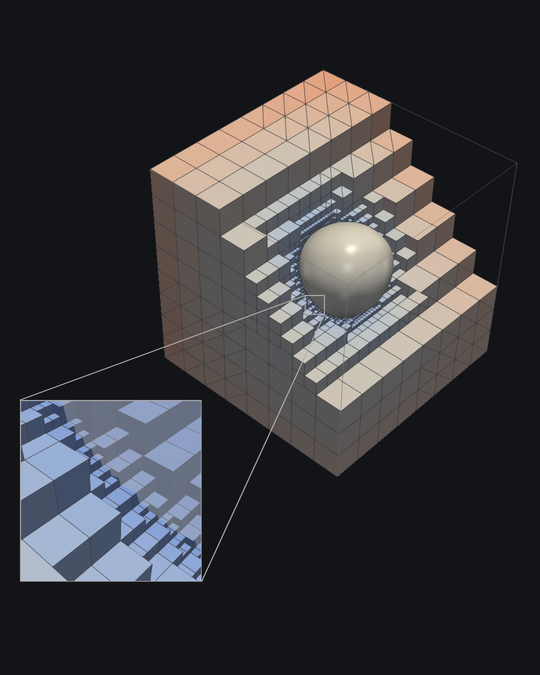
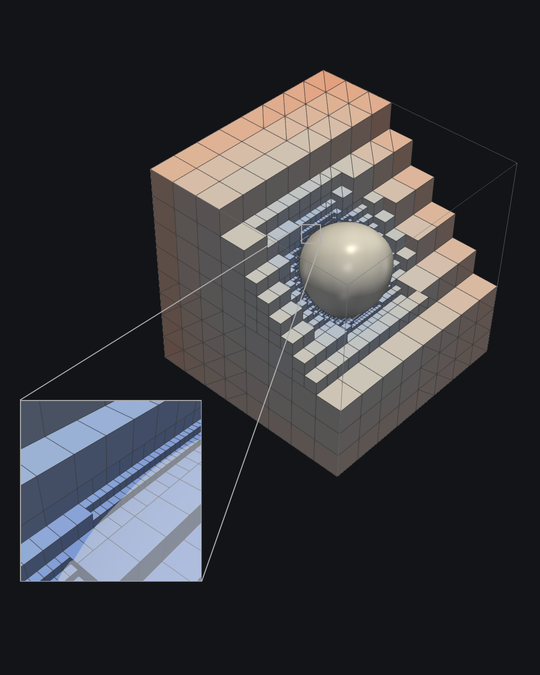
gpu_advection_visualization: zoom at the upper left of the sphere, make_video.sh --last
The zoom now shows the refinement band at the upper left of the sphere, so it also shows prisms
later in the run. New options: --inset-dir=x,y,z (advect_scene.py) and --last=N (make_video.sh,
ends the video at output step N). Images re-rendered.

[with assistance from claude] [created with claude]

diff --git a/cases/gpu_advection_visualization/postprocessing/advect_scene.py b/cases/gpu_advection_visualization/postprocessing/advect_scene.py
@@ -5,7 +5,7 @@ library path, otherwise pvpython picks up libraries from the module system:
 
   env -u LD_LIBRARY_PATH -u PYTHONPATH pvpython advect_scene.py state  <data_dir> <out.pvsm>
   env -u LD_LIBRARY_PATH -u PYTHONPATH pvpython advect_scene.py render <data_dir> <out_dir> <first> <last> [stride] [--raytrace]
-      [--inset] [--inset-zoom=Z] [--inset-iso=transparent|curve] [--labels] [--subtitle=TEXT]
+      [--inset] [--inset-zoom=Z] [--inset-iso=transparent|curve] [--inset-dir=x,y,z] [--labels] [--subtitle=TEXT]
 
 'state' writes a ParaView state file for the GUI. 'render' writes one PNG per time step
 (frame_NNN.png) for the steps first, first+stride, ... up to last (inclusive). With --inset each frame also
@@ -56,8 +56,10 @@ INSET_RESOLUTION = [360, 360]
 # Top left corner of the inset border in the frame. The inset stays clear of the bottom of the frame,
 # where video players show their controls.
 INSET_POSITION = [40, 800]
-# Lower left of the sphere in the main image (hexahedral part of the mesh).
-INSET_DIRECTION = [0.962, 0.193, -0.193]
+# Upper left of the sphere in the main image. Later in the run, the sphere moves into the prismatic part
+# of the mesh, so the zoom also shows prisms. (Lower left of the sphere: [0.962, 0.193, -0.193].)
+# Can be changed with --inset-dir=x,y,z.
+INSET_DIRECTION = [0.14, -0.7, 0.7]
 INSET_GAP = 0.005
 # Magnification of the inset relative to the main image (pixel size of a feature in the inset / in the main image).
 INSET_ZOOM = 10.0
@@ -253,7 +255,7 @@ def convex_hull(points):
   return set(hull)
 
 
-def save_inset(view, time, inset_file, zoom=INSET_ZOOM, iso_mode=INSET_ISO_MODE):
+def save_inset(view, time, inset_file, zoom=INSET_ZOOM, iso_mode=INSET_ISO_MODE, direction=INSET_DIRECTION):
   """Render the zoom into the refinement band at the given time into inset_file.
   Returns the corners of the zoomed region in the main image (top left, top right, bottom right, bottom left)."""
   from paraview import servermanager
@@ -274,8 +276,8 @@ def save_inset(view, time, inset_file, zoom=INSET_ZOOM, iso_mode=INSET_ISO_MODE)
   section.UpdatePipeline(time)
   points = servermanager.Fetch(section).GetPoints()
   outermost = builtins.max((points.GetPoint(i) for i in range(points.GetNumberOfPoints())),
-                  key=lambda p: vec_dot(p, INSET_DIRECTION))
-  focal = [outermost[i] + INSET_GAP * INSET_DIRECTION[i] for i in range(3)]
+                  key=lambda p: vec_dot(p, direction))
+  focal = [outermost[i] + INSET_GAP * direction[i] for i in range(3)]
   # Camera basis: back (towards the camera), up and right.
   back = vec_normalized([CAMERA_POSITION[i] - CAMERA_FOCAL_POINT[i] for i in range(3)])
   up = vec_normalized([CAMERA_VIEW_UP[i] - vec_dot(CAMERA_VIEW_UP, back) * back[i] for i in range(3)])
@@ -363,6 +365,7 @@ def main():
   labels = "--labels" in sys.argv
   zoom = INSET_ZOOM
   iso_mode = INSET_ISO_MODE
+  direction = INSET_DIRECTION
   subtitle = None
   for arg in sys.argv:
     if arg.startswith("--subtitle="):
@@ -371,6 +374,8 @@ def main():
       zoom = float(arg.split("=")[1])
     if arg.startswith("--inset-iso="):
       iso_mode = arg.split("=")[1]
+    if arg.startswith("--inset-dir="):
+      direction = vec_normalized([float(x) for x in arg.split("=")[1].split(",")])
   reader, view = build_scene(files, raytrace)
   if mode == "state":
     SaveState(sys.argv[3])
@@ -387,7 +392,7 @@ def main():
     inset_file, region = None, None
     if inset:
       inset_file = os.path.join(out_dir, "inset_%03d.png" % step)
-      region = save_inset(view, times[step], inset_file, zoom, iso_mode)
+      region = save_inset(view, times[step], inset_file, zoom, iso_mode, direction)
     if inset or labels:
       compose_frame(frame_file, inset_file, region, labels, subtitle)
     if inset_file:

diff --git a/cases/gpu_advection_visualization/README.md b/cases/gpu_advection_visualization/README.md
@@ -42,9 +42,10 @@ is offloaded to the GPU with OpenMP `target`.
   color range of ±0.25 for all time steps.
 * The light surface is the interface $\varphi = 0$ on the removed side of the plane. Therefore the half sphere sits on
   the cut face. Around it you see the band of fine elements (refinement level up to 7) as a ring on the cut face.
-* The window in the lower left corner zooms (10 times) into the refinement band on the cut face at the lower left of
-  the sphere. There, in the hexahedral part of the mesh, the elements become finer towards the interface like a
-  staircase. In the zoom, the sphere is semi-transparent, so the elements behind it stay visible.
+* The window in the lower left corner zooms (10 times) into the refinement band on the cut face at the upper left of
+  the sphere. The elements become finer towards the interface like a staircase. At the start, the zoom shows hexahedra.
+  Later the sphere moves into the prismatic part of the mesh, and the zoom shows prisms.
+  In the zoom, the sphere is semi-transparent, so the elements behind it stay visible.
   The small frame in the main image marks the zoomed region.
 * During the run, the sphere moves along a loop and is deformed by the flow (middle image). At the end it is almost
   back at its start. You can watch the refinement band move with the interface and the mesh coarsen behind it.
@@ -176,11 +177,15 @@ at the top of the file.
   the points, resamples them to a uniform 256³ grid, smooths them with a Gaussian filter
   (σ ≈ 0.013, removes ripples from the jumps at hanging faces) and then extracts $\varphi = 0$.
 * The zoom (option `--inset` of `advect_scene.py` and `make_video.sh`): a second camera looks from the same direction,
-  10 times magnified, at the interface on the cut face at the lower left of the sphere. Its target is the outermost point of
+  10 times magnified, at the interface on the cut face at the upper left of the sphere. Its target is the outermost point of
   the intersection of the interface with the cutting plane, so it follows the sphere and its deformation.
   In the zoom, the sphere is semi-transparent (opacity 0.4) and gets more ambient light, since this side is in the shade.
   The zoom is placed in the lower left of each frame, about 190 px above the bottom edge, so that the controls of video
   players do not cover it. A frame with two connecting lines marks the zoomed region in the main image (drawn with Pillow).
+  The direction of the zoomed region from the sphere is `INSET_DIRECTION` in `advect_scene.py` (option `--inset-dir=x,y,z`);
+  `0.962,0.193,-0.193` gives the lower left of the sphere, as in earlier versions of the video.
+* `make_video.sh` accepts `--last=N` after the render options to end the video at output step N
+  (e.g. `--last=29` for the first half of a run with 59 output steps).
   The state file contains only the main view.
 * The text overlays (option `--labels`, see [GPU run on aac7](#gpu-run-on-aac7)) use the Roboto font
   (`/usr/share/fonts/truetype/roboto/hinted`). The camera frames the cube so that it stays clear of the texts and the zoom.
